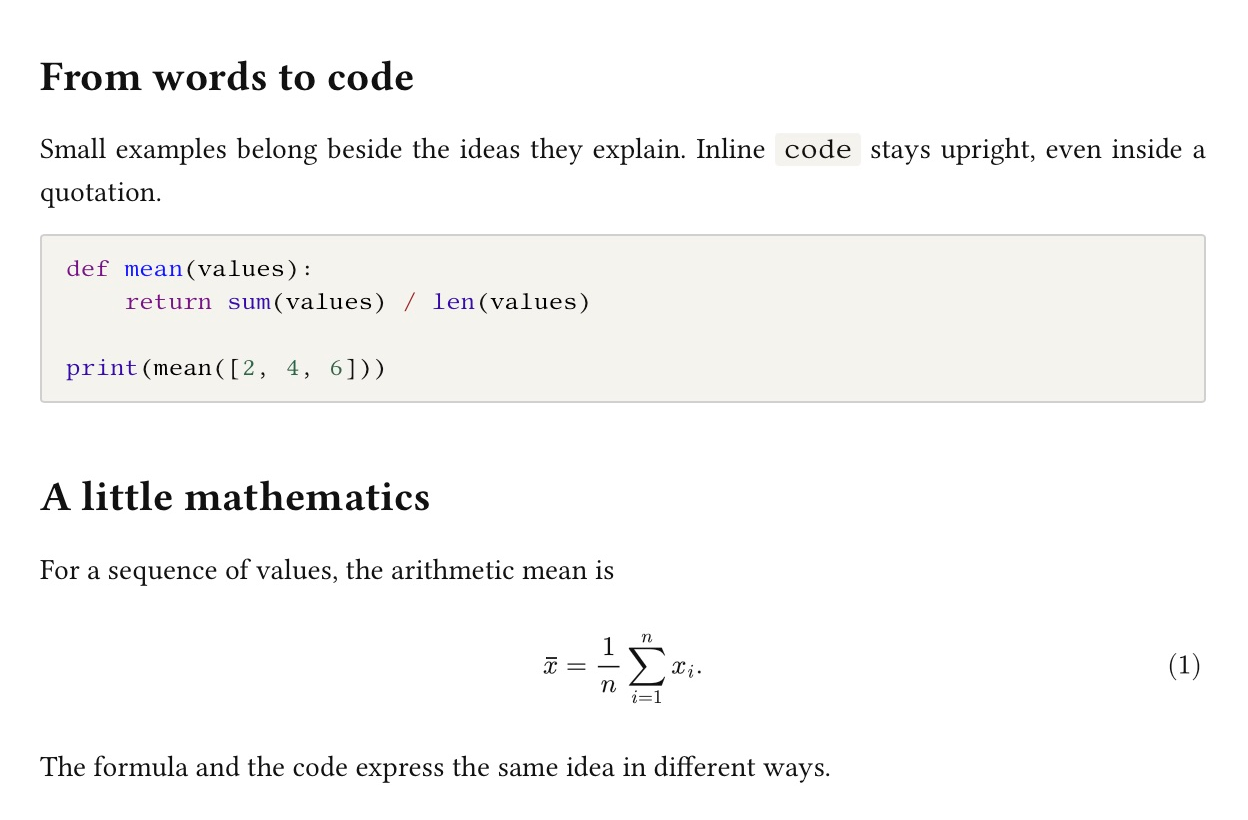
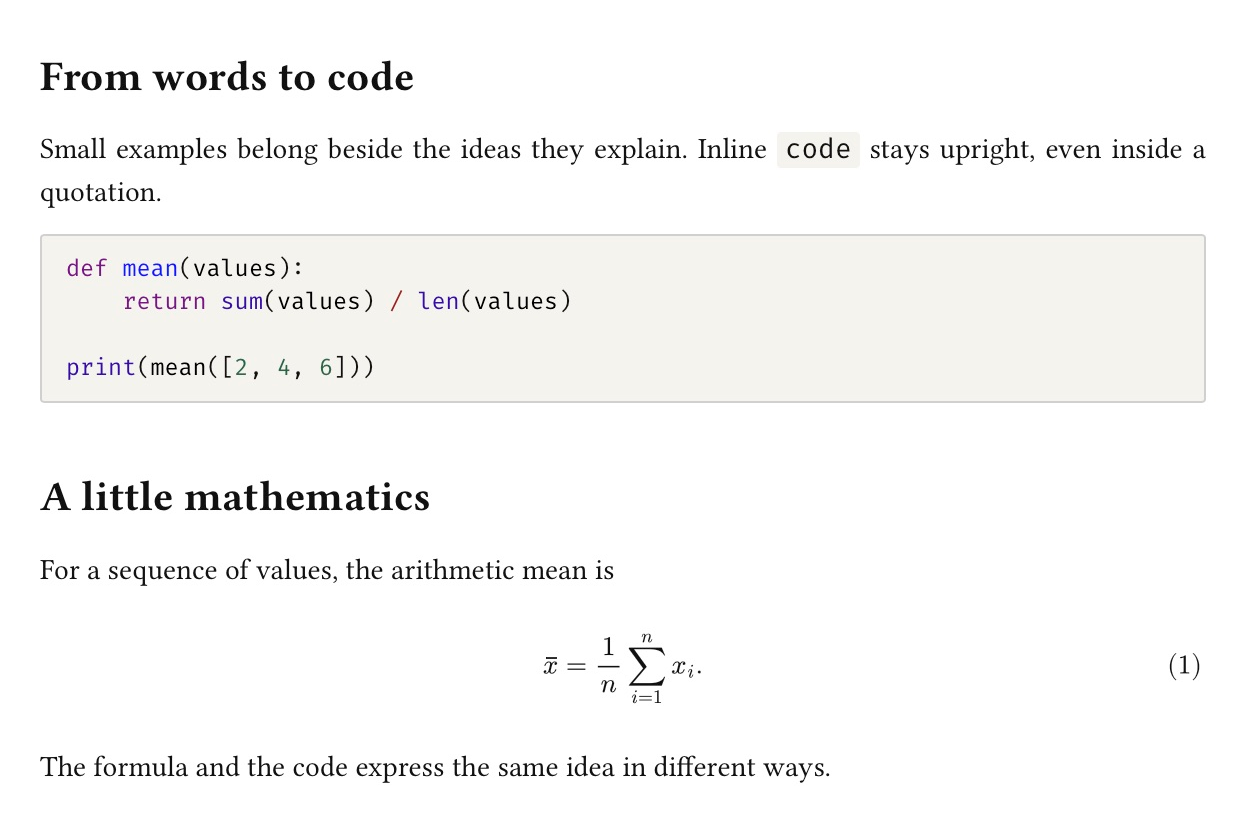
Add Libertinus Dark and refresh Fira Code screenshots

diff --git a/libertinus-dark.css b/libertinus-dark.css
@@ -1,0 +1,101 @@
+/* Libertinus Dark — keep this file beside libertinus.css. */
+@import "libertinus.css";
+
+/* Screen-only colors preserve the light theme's print/PDF appearance. */
+@media screen {
+    :root {
+        color-scheme: dark;
+        --bg-color: #1b1c20;
+        --text-color: #e8e3d8;
+        --muted-color: #a8a39b;
+        --rule-color: #c7c0b5;
+        --soft-rule: #4d5059;
+        --code-bg: #25272e;
+        --link-color: #9fb9ed;
+
+        --side-bar-bg-color: #17181c;
+        --control-text-color: var(--text-color);
+        --control-text-hover-color: #ffffff;
+        --window-border: 1px solid var(--soft-rule);
+        --item-hover-bg-color: #30333c;
+        --item-hover-text-color: var(--text-color);
+        --active-file-bg-color: #30333c;
+        --active-file-text-color: var(--text-color);
+        --active-file-border-color: var(--link-color);
+        --primary-color: var(--link-color);
+        --primary-btn-text-color: #1b1c20;
+        --select-text-bg-color: #3b4f70;
+        --select-text-font-color: #ffffff;
+        --search-select-bg-color: #3b4f70;
+        --search-select-text-color: #ffffff;
+        --rawblock-edit-panel-bd: var(--code-bg);
+        --md-char-color: #959ba6;
+        --meta-content-color: #91bfd6;
+        --heading-char-color: var(--muted-color);
+        --panel-border-color: var(--soft-rule);
+        --table-border-color: var(--soft-rule);
+        --color-popover-bg-color: var(--code-bg);
+        --active-toggle-btn-color: #30333c;
+    }
+
+    html { background: var(--bg-color); }
+    body { fill: currentColor; }
+    button, input, select, textarea, div.code-tooltip-content {
+        color: var(--text-color);
+    }
+
+    .CodeMirror { color: var(--text-color); }
+    .CodeMirror div.CodeMirror-cursor {
+        border-left-color: var(--text-color);
+    }
+    .CodeMirror-selected,
+    .CodeMirror-selectedtext {
+        background: var(--select-text-bg-color);
+        color: var(--select-text-font-color) !important;
+        text-shadow: none;
+    }
+    .CodeMirror-activeline-background { background: var(--code-bg); }
+    .CodeMirror-linenumber { color: var(--muted-color); }
+
+    .cm-s-inner .cm-variable,
+    .cm-s-inner .cm-property,
+    .cm-s-inner .cm-bracket { color: var(--text-color); }
+    .cm-s-inner .cm-keyword,
+    .cm-s-inner .cm-tag { color: #c9a4e8; }
+    .cm-s-inner .cm-string,
+    .cm-s-inner .cm-string-2,
+    .cm-s-inner .cm-quote,
+    .cm-s-inner .cm-positive { color: #a4c9a2; }
+    .cm-s-inner .cm-number,
+    .cm-s-inner .cm-atom { color: #dfb780; }
+    .cm-s-inner .cm-comment,
+    .cm-s-inner.cm-comment { color: #959ba6; }
+    .cm-s-inner .cm-def,
+    .cm-s-inner .cm-header { color: #e6c788; }
+    .cm-s-inner .cm-builtin,
+    .cm-s-inner .cm-variable-2,
+    .cm-s-inner .cm-variable-3,
+    .cm-s-inner .cm-attribute { color: #91bfd6; }
+    .cm-s-inner .cm-operator,
+    .cm-s-inner .cm-meta,
+    .cm-s-inner .cm-qualifier { color: #c5bce8; }
+    .cm-s-inner .cm-link { color: var(--link-color); }
+    .cm-s-inner .cm-hr { color: var(--rule-color); }
+    .cm-s-inner .cm-negative,
+    .cm-s-inner .cm-error { color: #e5a09b; }
+
+    /* Markdown source mode uses a different CodeMirror theme. */
+    .cm-s-typora-default .cm-header,
+    .cm-s-typora-default .cm-property { color: #e6c788; }
+    .cm-s-typora-default .cm-comment,
+    .cm-s-typora-default .cm-code { color: #c5bce8; }
+    .cm-s-typora-default .cm-string { color: #a4c9a2; }
+    .cm-s-typora-default .cm-atom,
+    .cm-s-typora-default .cm-number { color: #dfb780; }
+    .cm-s-typora-default .cm-link { color: var(--link-color); }
+}
+
+@media print {
+    :root { color-scheme: light; }
+    html, body { background: #ffffff !important; }
+}

diff --git a/README.md b/README.md
@@ -1,6 +1,6 @@
 # Libertinus for Typora
 
-A light [Typora](https://typora.io/) theme inspired by a Pandoc and XeLaTeX article set in Libertinus. Made for notes, essays, and technical writing, with a 16 cm reading measure, LaTeX-style heading sizes, booktabs-style tables, and serif fallbacks for Chinese text.
+A light and dark [Typora](https://typora.io/) theme inspired by a Pandoc and XeLaTeX article set in Libertinus. Made for notes, essays, and technical writing, with a 16 cm reading measure, LaTeX-style heading sizes, booktabs-style tables, and serif fallbacks for Chinese text.
 
 Blockquotes use italic text with a narrow grey left border; code stays upright. Click inside a code block to edit its language in the footer below the code, without scrolling to reveal the selector.
 
@@ -8,13 +8,17 @@ Blockquotes use italic text with a narrow grey left border; code stays upright. 
 
 ![Python code and a displayed equation in Typora](docs/code-and-math.png)
 
+![Libertinus Dark typography](docs/dark-typography.png)
+
+![Fira Code and mathematics in Libertinus Dark](docs/dark-code-and-math.png)
+
 ## Install
 
-1. Download and unzip the [latest release](https://github.com/wei-yuhang/typora-theme-libertinus/releases/latest), or download [`libertinus.css`](libertinus.css) using GitHub’s **Download raw file** button.
-2. In Typora, open **Preferences → Appearance → Open Theme Folder** and copy `libertinus.css` into that folder.
-3. Restart Typora and choose **Themes → Libertinus**.
+1. Download and unzip the [latest release](https://github.com/wei-yuhang/typora-theme-libertinus/releases/latest), or download both [`libertinus.css`](libertinus.css) and [`libertinus-dark.css`](libertinus-dark.css) using GitHub’s **Download raw file** button.
+2. In Typora, open **Preferences → Appearance → Open Theme Folder** and copy **both CSS files** into that folder.
+3. Restart Typora and choose **Themes → Libertinus** or **Libertinus Dark**.
 
-Only the CSS file belongs in the theme folder. Open [`sample.md`](sample.md) to try headings, quotations, tables, code, math, Chinese text, lists, and footnotes.
+Keep both CSS files together: the dark variant imports the light theme’s shared typography and layout. Only the CSS files belong in the theme folder. Open [`sample.md`](sample.md) to try headings, quotations, tables, code, math, Chinese text, lists, and footnotes.
 
 See the [Typora theme installation guide](https://theme.typora.io/doc/Install-Theme/) for platform-specific details.
 
@@ -24,17 +28,17 @@ Fonts are **not bundled**. Install Libertinus Serif and Libertinus Sans from the
 
 For Chinese text, the intended font is **思源宋体 (Source Han Serif)**. Install the Simplified Chinese edition from the [official Adobe font releases](https://github.com/adobe-fonts/source-han-serif/releases). The CSS looks for `Source Han Serif SC` / `Source Han Serif CN` and their Chinese names first, then Noto Serif CJK and system serif fallbacks if 思源宋体 is unavailable. Fonts are not downloaded automatically by the theme.
 
-The theme also recognizes Libertinus Mono and Libertinus Math. Code prefers Fira Code or JetBrains Mono when installed, then falls back to Libertinus Mono and system monospace fonts. The screenshots use fonts installed on macOS, so other systems can look slightly different.
+The theme also recognizes Libertinus Mono and Libertinus Math. Code prefers [Fira Code](https://github.com/tonsky/FiraCode) or JetBrains Mono when installed, then falls back to Libertinus Mono and system monospace fonts. The screenshots use Libertinus Serif, **Fira Code**, and **Source Han Serif SC** on macOS; other systems can look slightly different.
 
 Math uses Typora’s configured renderer. Setting a CSS font family does not replace glyphs drawn as SVG by MathJax.
 
 ## Compatibility
 
-- Used long-term on **Windows** by the author.
+- The original light theme has been used long-term on **Windows** by the author. The new dark variant has been checked on macOS; Windows verification is still needed.
 - Checked in **Typora 1.14.15 on macOS**, including the recent code-language picker changes, narrow editor/sidebar layout, source mode, tables, math, lists, and PDF export.
 - **Linux has not been tested.**
 
-This is a light theme, including when selected under the operating system’s dark appearance. It does not include a separate dark variant. PDF page size and physical margins are controlled by Typora’s export settings; the theme’s screen layout is inspired by A4 rather than an exact LaTeX page reproduction.
+Libertinus is the light variant; **Libertinus Dark** uses a warm charcoal background, muted ivory text, and matching code, source-mode, and sidebar colors. Print content uses the light palette. For reliable white PDF page margins while editing in dark mode, choose **Libertinus** under **Settings → Export → PDF → Theme**; Typora on macOS can otherwise retain the editor’s dark background outside the printed content. See [Typora’s export settings](https://support.typora.io/Export/#theme-2). PDF page size and physical margins are controlled by Typora’s export settings; the theme’s screen layout is inspired by A4 rather than an exact LaTeX page reproduction.
 
 ## License
 

diff --git a/sample.md b/sample.md
@@ -56,6 +56,6 @@ Latin and Chinese characters can coexist in the same paragraph. Font fallbacks a
 - [x] Write the first draft.
 - [ ] Read it again tomorrow.
 
-The page is deliberately light, with no dark variant. It is designed for notes, essays, technical explanations, and reading at length.[^note]
+Choose a light page or a warm charcoal background. Both variants are designed for notes, essays, technical explanations, and reading at length.[^note]
 
-[^note]: Open this document in Typora and choose **Themes → Libertinus**. For the intended typography, install the Libertinus fonts separately.
+[^note]: Open this document in Typora and choose **Themes → Libertinus** or **Libertinus Dark**. Install Libertinus, Fira Code, and 思源宋体 separately for the intended typography.
